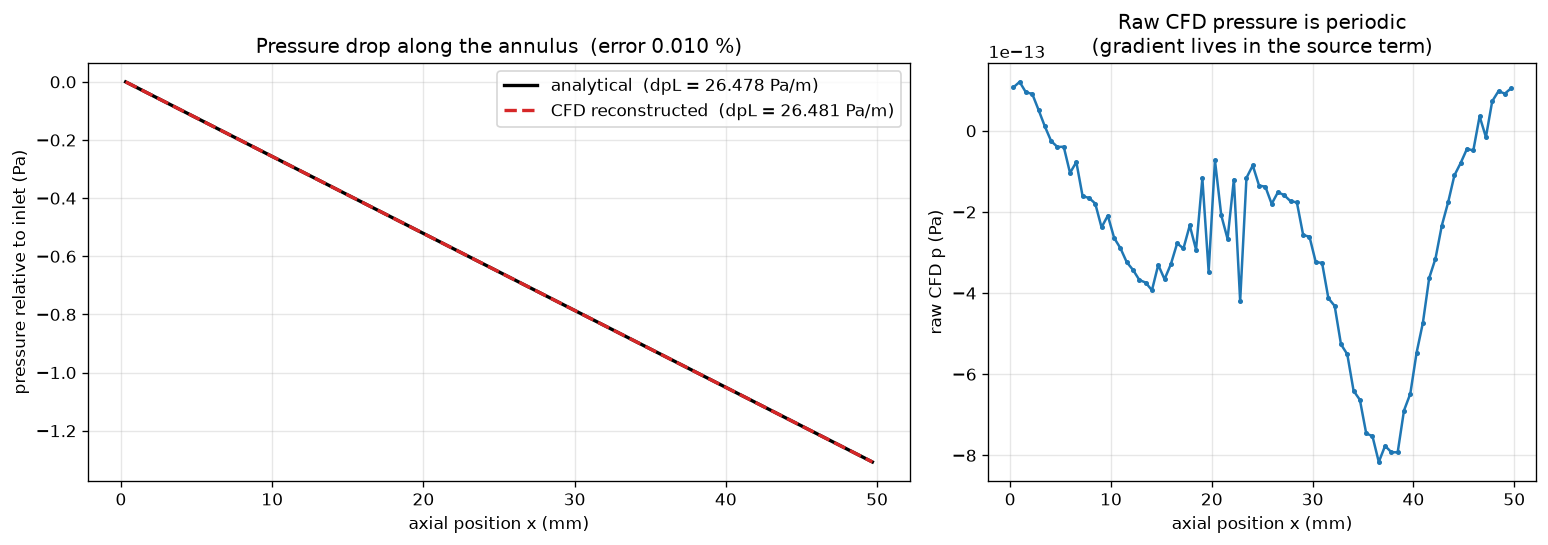
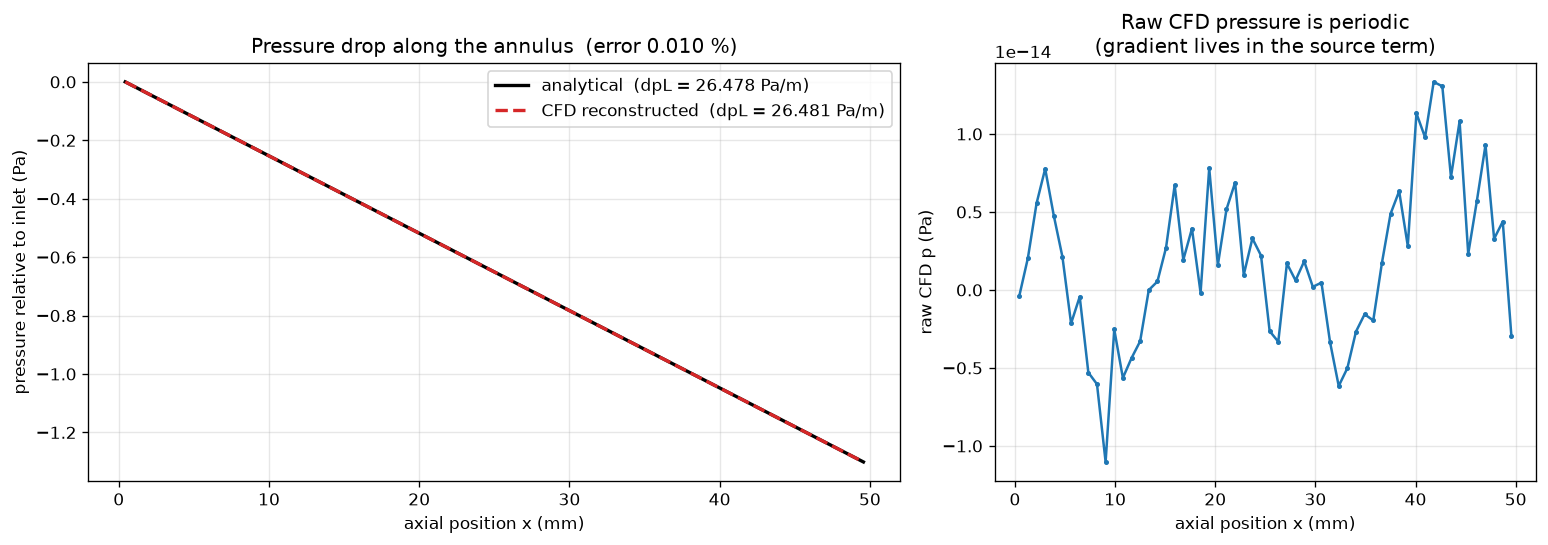
Resolve high Reynolds convergence in the periodic annulus reference
An axial mesh sized to the gap and length keeps short cases convergent while preserving mesh quality on longer cases. Confirm D0, the eight-case Latin hypercube and a Reynolds 1990 stress case with the same acceptance limits.

diff --git a/pipeline/annulus_case.py b/pipeline/annulus_case.py
@@ -299,6 +299,14 @@ def prepare_openfoam_case(request, physical, case_dir):
         n_radial += 1
     n_half = n_radial // 2
 
+    # Bound the axial pitch relative to a lower bound on the smallest radial
+    # cell. Both radial blocks span half the gap and use a 1.5 grading ratio.
+    # CheckMesh remains authoritative for the actual generated mesh.
+    gap_m = (physical["OuterRadiusMm"] - physical["InnerRadiusMm"]) * 1e-3
+    length_m = physical["LengthMm"] * 1e-3
+    min_radial_pitch = gap_m / (n_radial * 1.5)
+    n_axial = max(8, math.ceil(length_m / (65 * min_radial_pitch)))
+    text = _replace_literal(text, "nX", str(n_axial))
     text = _replace_literal(text, "nR1", str(n_half))
     text = _replace_literal(text, "nR2", str(n_half))
     text = _replace_literal(text, "Ri", f"{physical['InnerRadiusMm'] * 1e-3:.17g}")

diff --git a/pipeline/reports/reynolds-readiness.md b/pipeline/reports/reynolds-readiness.md
@@ -1,0 +1,81 @@
+# Reynolds convergence and dataset readiness
+
+The original 80-cell axial mesh with bounded `limitedLinearV` failed at
+Re ≈ 1790. Bounded `linearUpwind grad(U)` improved the pressure-gradient
+error from 12.7445% to 0.009970% with the original linear-solver tolerance,
+but the pressure and transverse-velocity checks still failed. Tightening the
+linear-solver tolerance to 1e-10 on the same 80-cell mesh left a pressure
+failure. The normalized pressure residual was 0.00529 against 0.001, and
+the pressure magnitude ratio was 6.75e-9 against the negligible-pressure
+threshold of 1e-9. The solver finished the 80-cell control. Its post-processing
+was restarted separately after the launcher changed during that control run.
+
+With eight axial cells on the same short, wide-gap annulus,
+`linearUpwind` passed with either linear-solver tolerance. At 1e-10 the
+gradient error was 0.006859%, and the native and saved-field flow errors
+were both 0.020307%. The axial periodic reference is translation invariant.
+Keeping the radial mesh and reducing axial cells was an appropriate
+comparison for this reference. The result does not establish a general
+mesh rule for developing flows.
+
+Eight axial cells were insufficient for some longer cases. Their
+`checkMesh` element determinant fell below the existing limit. The
+production rule limits axial pitch to 65 times a conservative lower bound
+on radial pitch, with a minimum of eight axial cells. For a gap split into
+two equally sized radial blocks with reciprocal grading up to 1.5, that
+lower bound is reconstructed gap divided by 1.5 times the total radial
+cell count. The number 65 was selected for mesh quality margin in these
+cases. `checkMesh` still checks the actual mesh. An injected D0 mesh with
+eight axial cells was refused before `simpleFoam` started.
+
+The new reference uses bounded `linearUpwind grad(U)` and a 1e-10
+linear-solver tolerance. That tolerance increases numerical work. No
+acceptance threshold changed.
+
+A separate upper-edge run on the original high-Reynolds geometry used a
+nominal Re of 1990 and reconstructed Re of 1989.70. All checks passed,
+with gradient error 0.006859% and native and saved-field flow errors of
+0.020305% and 0.020307%. Its imposed Q was 3.1932e-5 m³/s, slightly above
+the pilot's sampling limit. This was a stress case near the Reynolds limit,
+outside the eight-case design.
+
+## Pilot definition
+
+The executed design preserves all eight Latin hypercube points in the four
+physical dimensions. Two of the eight geometries failed the 0.1% volume
+criterion at 0.2 mm and passed at 0.15 mm. The executed manifest records
+the two revised case IDs. Independent numerical integration of radial
+momentum reproduced all eight analytical gradients to about 1e-10 relative.
+
+Raw fields, mesh checks, reports, and the negative solver experiments are
+under `~/data/datasets/sgk-mini/experiments/reynolds-heb6nhep/`.
+
+```bash
+validation/run_annulus.sh --check
+~/data/venvs/sgk-mini/bin/python pipeline/run_pilot.py \
+  --cases pipeline/pilot-cases-lhs-refined.json \
+  --root ~/data/datasets/sgk-mini/reynolds-pilot-reproduction \
+  --reports ~/data/datasets/sgk-mini/reynolds-pilot-reports
+```
+
+Generate the default geometry with `scripts/check_analytic.py` before
+running the first command from a clean checkout.
+
+## Acceptance results
+
+D0 passed from a clean build and solver run with 58 axial cells and 100 radial
+cells. Its gradient error was 0.009537% and both flow errors were 0.0203%.
+The geometry golden comparison and all ten guard tests passed.
+
+The eight pilot meshes passed `checkMesh` with 8 to 48 axial cells.
+All eight cases passed geometry, CFD and saved-field acceptance. The largest
+observed pilot gradient error was 0.0775%, against the 0.5% limit. Both
+flow errors were around 0.0203% for every case, against the 0.05% limit.
+The native flow was independently reproduced by summing all eight saved
+axial patch fluxes. All 2,560 listed artifact hashes matched.
+
+The pilot supports starting the annular dataset with the existing per-case
+checks and retaining failures. Its eight physical points and the upper-edge
+stress run are evidence for the tested configurations. They do not show that
+every sampled geometry will pass at the default voxel size or converge
+throughout the full parameter box. The full batch has not been generated.

diff --git a/pipeline/README.md b/pipeline/README.md
@@ -13,6 +13,9 @@ annular case is an instance, not a framework.
 - `pilot-cases.json` — the historical eight-case design and its original results.
 - `pilot-cases-lhs.json` — the follow-up design with eight points and one point
   per stratum in each dimension.
+- `pilot-cases-lhs-refined.json` — the executed follow-up design. It preserves
+  the same physical points and uses finer voxels for the two geometries that
+  missed the volume tolerance at 0.2 mm.
 - `reports/` — compact, committed results; the data itself is elsewhere.
 
 ## Data layout
@@ -48,7 +51,8 @@ dotnet build src/SGK.Geometry/ -c Debug
 ~/data/venvs/sgk-mini/bin/python pipeline/run_pilot.py --only ann-XXXXXXXX
 ```
 
-Use `--cases pipeline/pilot-cases-lhs.json` to run the follow-up design.
+Use `--cases pipeline/pilot-cases-lhs-refined.json` to reproduce the executed
+follow-up design.
 Use `--reports` to select a distinct report directory when comparing designs.
 
 The pilot stops after the eight requested cases. Nothing trains a model and
@@ -58,6 +62,9 @@ nothing generates the full batch.
 
 The mesher, the solver schemes and the physical model are the validated
 reference configuration. `prepare_openfoam_case` copies the reference
-dictionaries and changes only the case literals (radii, length, imposed mean
-velocity, kinematic viscosity, radial cell count). Every literal is re-checked
-against the physical record by `run_annulus.sh` before `blockMesh`.
+dictionaries and sets the case literals (radii, length, imposed mean velocity,
+kinematic viscosity, and axial and radial cell counts). The number of axial
+cells depends on length and radial pitch. A short, wide-gap annulus can have
+eight axial cells, while a long or narrow-gap annulus can need more. The runner
+checks the physical inputs before `blockMesh` and requires `checkMesh` to
+report `Mesh OK.` before starting the solver.

diff --git a/README.md b/README.md
@@ -11,7 +11,7 @@ solution. The figures below are committed in the repository, so you can read
 them without cloning or running anything.
 
 **Values — CFD against analytical** (annulus Ri=8.00 mm, Ro=10.00 mm, Re≈35,
-2° axisymmetric wedge, 80×100×1 cells, 8000 iterations):
+2° axisymmetric wedge, 58×100×1 cells, 8000 iterations):
 
 ![validation values](validation/figures/04_metrics_summary.png)
 
@@ -224,6 +224,11 @@ could not see. Each is fixed and has a focused negative test:
 The reference case is now a 2° axisymmetric wedge in one tangential cell instead
 of a 30° section in three. Its area defect is 0.0203 % instead of 0.507 %, and
 the flow-rate label carries only that measured defect.
+
+The reference uses bounded `linearUpwind` and sets the axial resolution from
+case length and radial pitch. The eight-case Latin hypercube and a separate
+stress test at reconstructed Re = 1989.7 passed the existing checks. See the
+[Reynolds convergence report](pipeline/reports/reynolds-readiness.md).
 
 ## What remains open
 

diff --git a/validation/README.md b/validation/README.md
@@ -47,8 +47,8 @@ numbers) and the benchmark from `output/hollow-cylinder.physical-case.json`.
 
 ### Reference result (Omarchy, 2026-11-18)
 
-2° axisymmetric wedge, 80×100×1 cells, axial periodicity, 8000 iterations
-(~98 s serial), voxel size 0.2 mm:
+2° axisymmetric wedge, 58×100×1 cells, axial periodicity, 8000 iterations,
+voxel size 0.2 mm:
 
 | Metric | Value |
 |---|---|
@@ -56,7 +56,7 @@ numbers) and the benchmark from `output/hollow-cylinder.physical-case.json`.
 | max \|err\| / Umax | 0.0071 % |
 | Umax error | 0.010 % |
 | pressure-gradient error | 0.0095 % |
-| flow-rate error (native flux) | 0.0203 % |
+| flow-rate error (native flux / saved field) | 0.020307 / 0.020306 % |
 | mesh sector-area defect | −0.0203 % |
 
 The flow-rate error is now the measured geometric defect of the finite wedge,
